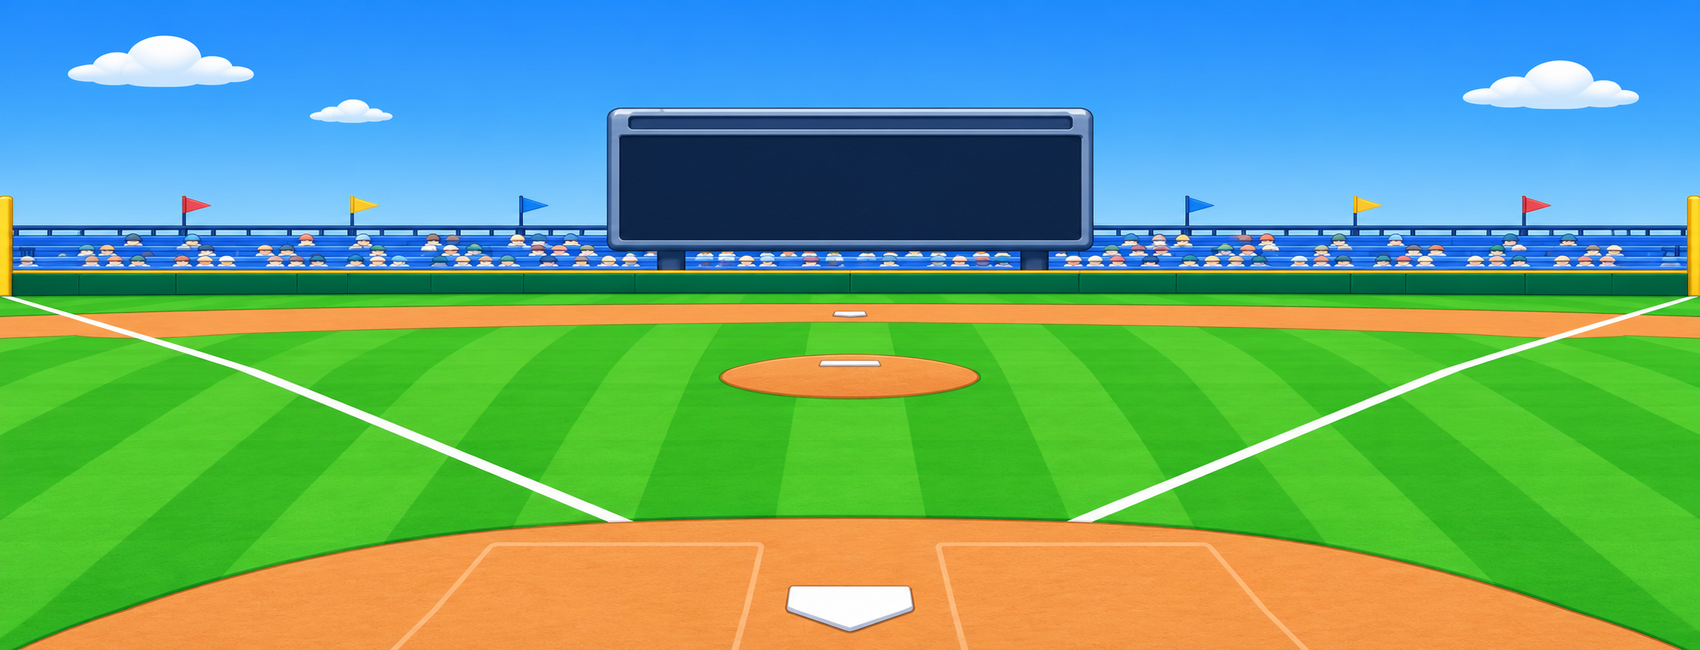
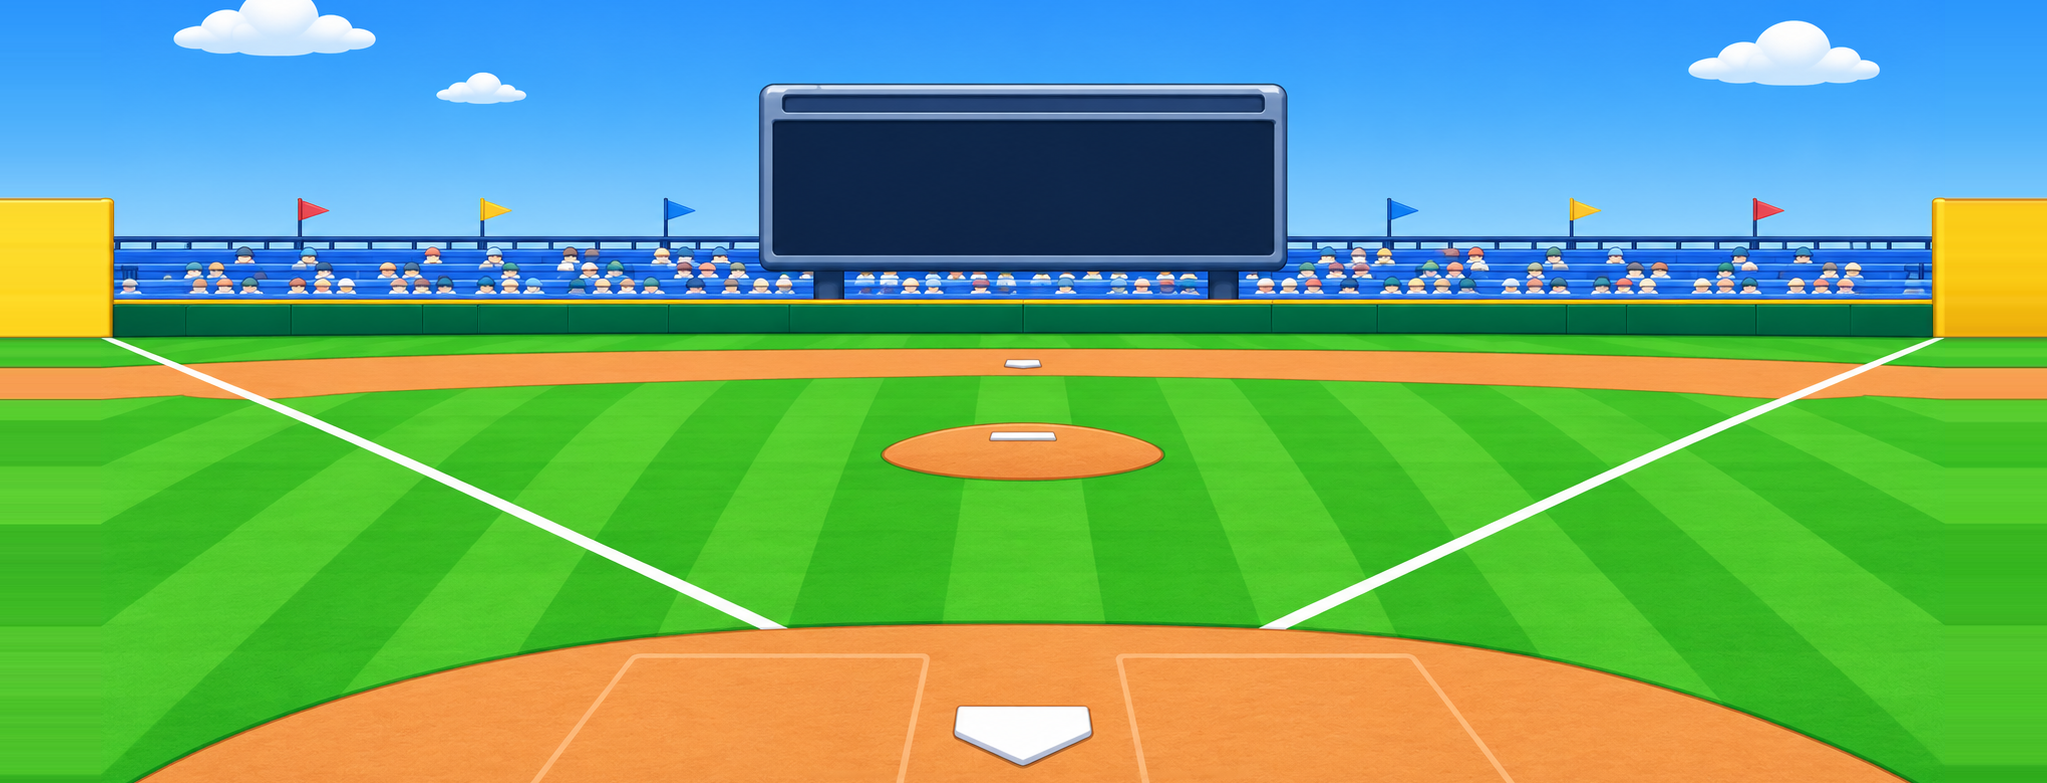
경기장 일러스트 비율·선명도: 타석 배경은 원본 비율 그대로, 중계는 GPU 메시로
- 타석: Codex 적용본은 원본을 가로 0.92배·세로 구간마다 0.68~0.83배로 눌렀다. scripts/pack_stadium_art.py 가 마운드·홈플레이트 높이만 맞춰 같은 배율로 자른다(원본 픽셀 그대로 2047×783). 전광판 LED 글자 자리를 새 그림에 맞춰 6칸 올림
- 중계: 탑뷰 원본을 픽셀 하나씩 베껴 반 칸 해상도로 늘리던 것을 땅 격자 메시(2m)로 바꿔 GPU 가 원본에서 바로 읽게 함(부드러운 필터+밉맵). 옛 도트 판은 그림 밖 자리만 채운다

diff --git a/scripts/pack_stadium_art.py b/scripts/pack_stadium_art.py
@@ -1,0 +1,39 @@
+"""타석 경기장 일러스트(docs/refs/sprites/batting_stadium_2d_v2.png)를 게임 배경 판으로 옮긴다.
+
+원본을 늘리거나 줄이지 않는다 (가로세로 같은 배율, 원본 픽셀 그대로). 옛 판(340×130 칸)의 기준점
+— 투수판·홈플레이트 높이 — 에 맞는 자리를 잘라 내고, 판이 원본보다 넓은 양옆은 가장자리 열을 늘여 채운다.
+(2026-11-10 Codex 첫 적용본은 가로 0.92배·세로 구간마다 0.68~0.83배로 눌러 비율이 어긋났다.)
+
+    .venv/bin/python scripts/pack_stadium_art.py
+"""
+from pathlib import Path
+
+from PIL import Image
+
+SRC = Path("docs/refs/sprites/batting_stadium_2d_v2.png")
+OUT = Path("godot/art/illustrated/stadium.png")
+FIELD = (340, 130)  # PixelMeta.FIELD_SIZE (칸)
+# 원본 y → 판 y(칸): 마운드 506 → 74, 홈플레이트 795 → 122 (옛 판과 같은 자리)
+SRC_MOUND, SRC_HOME = 506, 795
+GRID_MOUND, GRID_HOME = 74, 122
+
+
+def main() -> None:
+    src = Image.open(SRC).convert("RGB")
+    s = (GRID_HOME - GRID_MOUND) / (SRC_HOME - SRC_MOUND)  # 칸 / 원본 px
+    top = round(SRC_HOME - GRID_HOME / s)
+    w, h = round(FIELD[0] / s), round(FIELD[1] / s)
+    band = src.crop((0, top, src.width, top + h))
+    out = Image.new("RGB", (w, h))
+    left = (w - src.width) // 2
+    out.paste(band, (left, 0))
+    # 양옆 빈 곳: 가장자리 한 열을 늘인다 (화면 비율이 아주 넓을 때만 보인다)
+    out.paste(band.crop((0, 0, 1, h)).resize((left, h)), (0, 0))
+    right = left + src.width
+    out.paste(band.crop((src.width - 1, 0, src.width, h)).resize((w - right, h)), (right, 0))
+    out.save(OUT)
+    print(f"{OUT} {w}×{h} (원본 {src.width}×{src.height}, 위 {top}px 잘라냄, 칸당 {1 / s:.2f}px)")
+
+
+if __name__ == "__main__":
+    main()
